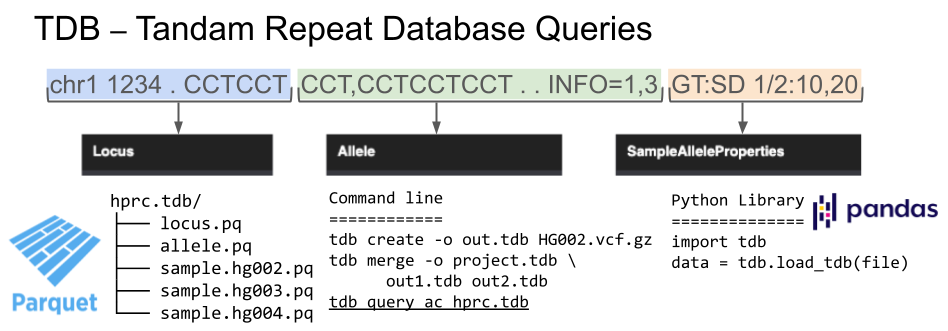
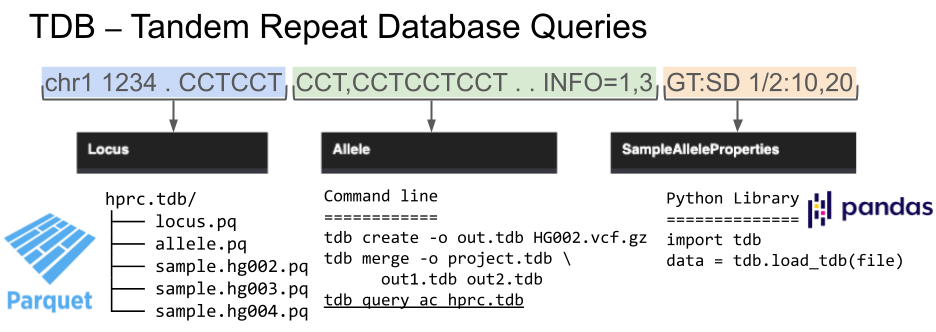
tandem not tando

Changed region(s): [[0.0, 0.574, 1.0, 0.9668], [0.031, 0.1813, 0.9295, 0.5438], [0.031, 0.0302, 0.7126, 0.1511]]

diff --git a/README.md b/README.md
@@ -1,4 +1,4 @@
-# TDB: Tandom Repeat Database Queries
+# TDB: Tandem Repeat Database Queries
 <img src="https://github.com/collaborativebioinformatics/tandemrepeats/blob/main/imgs/TandoRepeatLogo.png?raw=true" style="width:100px;" align="right" style="vertical-align: middle;"> 
 
 Tandem Repeats Team -- 2024 SVCC Hackathon
